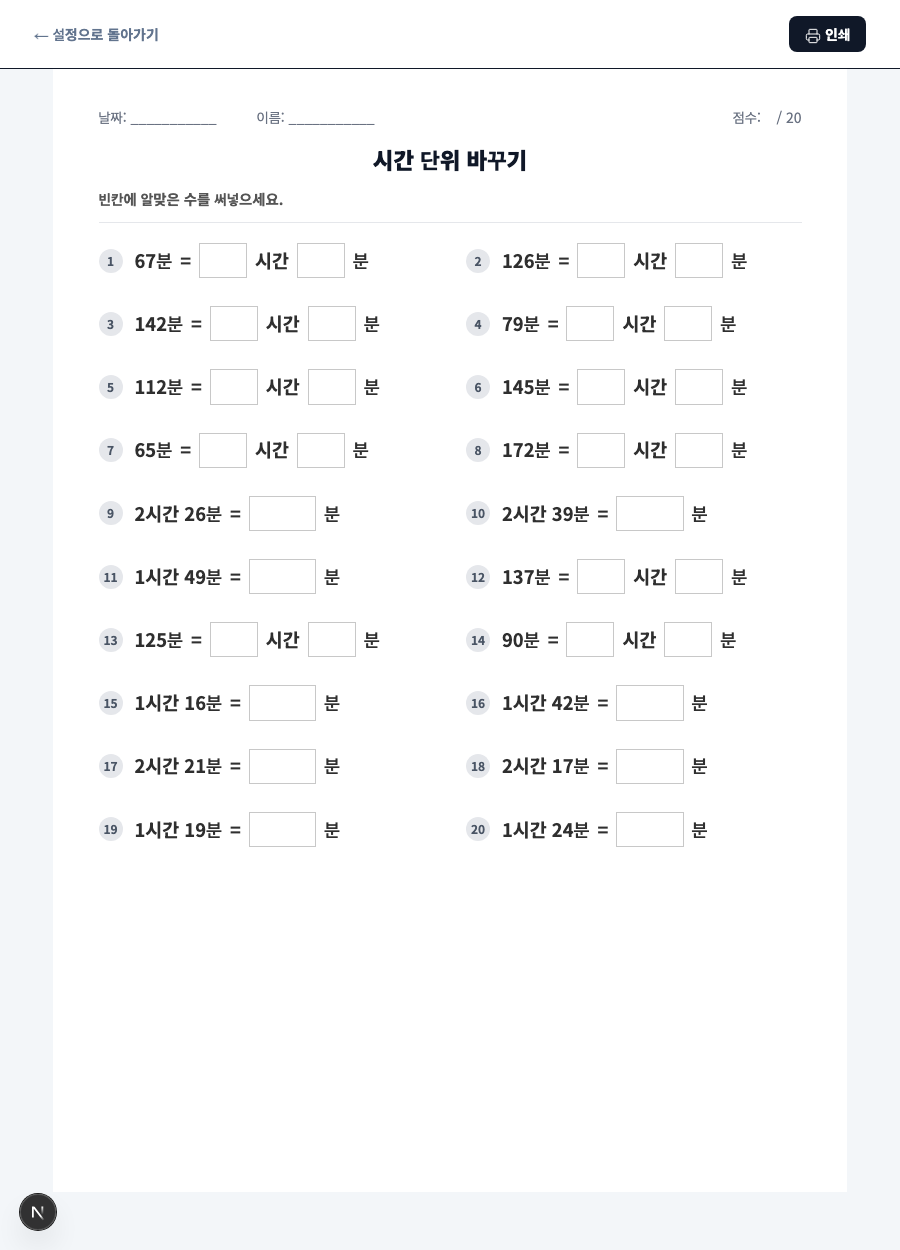
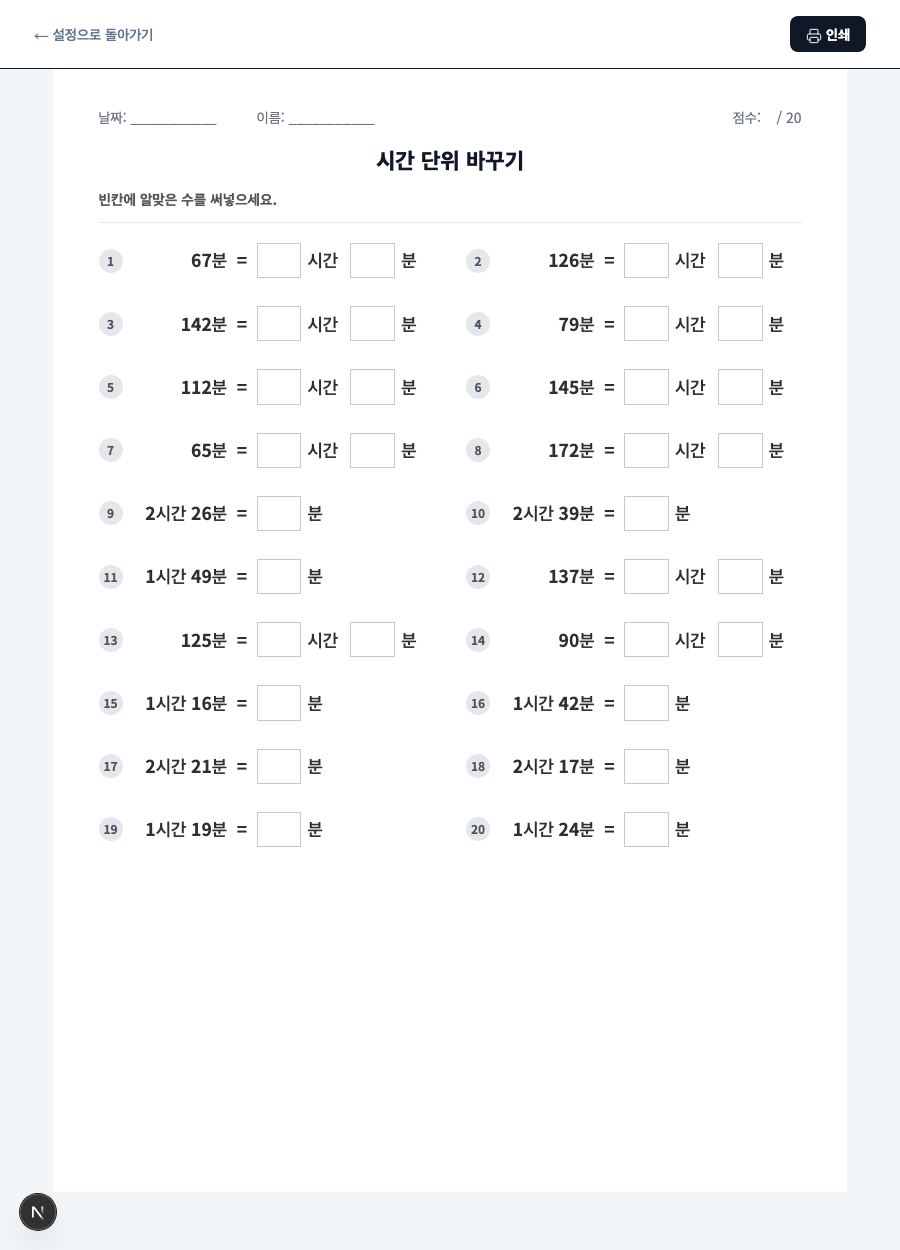
[AF-1051] 시간 문제지 조정 — 비교 문제 ( ) 칸 제거, 단위 바꾸기 열 정렬
- 더 긴 시간 고르기: 시간 아래 ( ) 줄을 지우고 칸 안 시간에 바로 O 표 하도록 변경
- 시간 단위 바꾸기: 고정 폭 grid로 =, 답 칸, 시간/분 단위를 줄마다 같은 열에 정렬

diff --git a/src/app/time/preview/page.tsx b/src/app/time/preview/page.tsx
@@ -34,26 +34,34 @@ function AnswerBox({ width }: { width: string }) {
   return <NumberBox tone="answer" width={width} height="2.2rem" align="center" style={{ borderColor: "#c8c8c8" }} />;
 }
 
+// 모든 줄이 같은 열을 쓰도록 고정 폭 grid로 배치한다.
+// [번호] [문제 시간(오른쪽 정렬)] [=] [답 칸] [단위] [답 칸] [단위]
+const CONVERT_GRID: React.CSSProperties = {
+  display: "grid",
+  gridTemplateColumns: "24px 5.6em 1em 2.8rem 2.1em 2.8rem 1.1em",
+  columnGap: 6,
+  alignItems: "center",
+  fontSize: "1.1rem",
+  fontWeight: 600,
+  whiteSpace: "nowrap",
+};
+
 function ConvertRow({ problem, number }: { problem: TimeConvertProblem; number: number }) {
+  const toMinutes = problem.direction === "to_minutes";
   return (
-    <div className="flex items-center gap-3 min-w-0" style={{ fontSize: "1.15rem", fontWeight: 600 }}>
+    <div style={CONVERT_GRID}>
       <ProblemNumber number={number} />
-      {problem.direction === "to_minutes" ? (
-        <span className="inline-flex items-center gap-2 whitespace-nowrap">
-          <span>{formatHoursMinutes(problem.minutes)}</span>
-          <span>=</span>
-          <AnswerBox width="4.2rem" />
+      <span style={{ textAlign: "right" }}>
+        {toMinutes ? formatHoursMinutes(problem.minutes) : `${problem.minutes}분`}
+      </span>
+      <span style={{ textAlign: "center" }}>=</span>
+      <AnswerBox width="100%" />
+      <span>{toMinutes ? "분" : "시간"}</span>
+      {toMinutes ? null : (
+        <>
+          <AnswerBox width="100%" />
           <span>분</span>
-        </span>
-      ) : (
-        <span className="inline-flex items-center gap-2 whitespace-nowrap">
-          <span>{problem.minutes}분</span>
-          <span>=</span>
-          <AnswerBox width="3rem" />
-          <span>시간</span>
-          <AnswerBox width="3rem" />
-          <span>분</span>
-        </span>
+        </>
       )}
     </div>
   );
@@ -61,21 +69,21 @@ function ConvertRow({ problem, number }: { problem: TimeConvertProblem; number: 
 
 function CompareRow({ problem, number }: { problem: TimeCompareProblem; number: number }) {
   return (
-    <div className="flex items-start gap-3 min-w-0">
+    <div className="flex items-center gap-3 min-w-0">
       <ProblemNumber number={number} />
       <div className="grid grid-cols-2 flex-1 min-w-0" style={{ border: "1px solid #d2d2d2" }}>
         {[problem.left, problem.right].map((value, idx) => (
           <div
             key={idx}
-            className="flex flex-col items-center"
-            style={{ borderLeft: idx === 1 ? "1px solid #d2d2d2" : undefined }}
+            className="text-center whitespace-nowrap"
+            style={{
+              borderLeft: idx === 1 ? "1px solid #d2d2d2" : undefined,
+              fontSize: "1.1rem",
+              fontWeight: 600,
+              padding: "16px 4px",
+            }}
           >
-            <div className="w-full text-center whitespace-nowrap" style={{ fontSize: "1.1rem", fontWeight: 600, padding: "7px 4px" }}>
-              {formatTimeValue(value)}
-            </div>
-            <div className="w-full flex justify-center" style={{ borderTop: "1px solid #ebebeb", padding: "2px 0" }}>
-              <span aria-hidden style={{ fontSize: "1rem", color: "#6b7280" }}>(&nbsp;&nbsp;&nbsp;&nbsp;)</span>
-            </div>
+            {formatTimeValue(value)}
           </div>
         ))}
       </div>
@@ -115,7 +123,7 @@ function TimeSheet({
         {copy.instruction}
       </div>
 
-      <div style={{ display: "grid", gridTemplateColumns: "repeat(2, minmax(0, 1fr))", rowGap: mode === "time_convert" ? 28 : 14, columnGap: 32, color: "#2f2f2f" }}>
+      <div style={{ display: "grid", gridTemplateColumns: "repeat(2, minmax(0, 1fr))", rowGap: mode === "time_convert" ? 28 : 16, columnGap: 32, color: "#2f2f2f" }}>
         {problems.map((p, i) =>
           p.kind === "time_convert" ? (
             <ConvertRow key={`c-${p.direction}-${p.minutes}`} problem={p} number={i + 1} />

diff --git a/tests/time-menu-and-pages.test.js b/tests/time-menu-and-pages.test.js
@@ -37,3 +37,11 @@ test('time preview page renders answer boxes and the circle instruction', () => 
   assert.match(source, /href="\/time"/);
   assert.match(source, /설정으로 돌아가기/);
 });
+
+test('time preview: compare cells have no "( )" placeholder and convert rows share one fixed grid', () => {
+  const source = read('src/app/time/preview/page.tsx');
+
+  assert.doesNotMatch(source, /\(&nbsp;/, '비교 문제에는 ( ) 칸을 두지 않는다');
+  assert.match(source, /const CONVERT_GRID[\s\S]*display: "grid"[\s\S]*gridTemplateColumns: "[^"]+"/);
+  assert.match(source, /<div style=\{CONVERT_GRID\}>/);
+});
